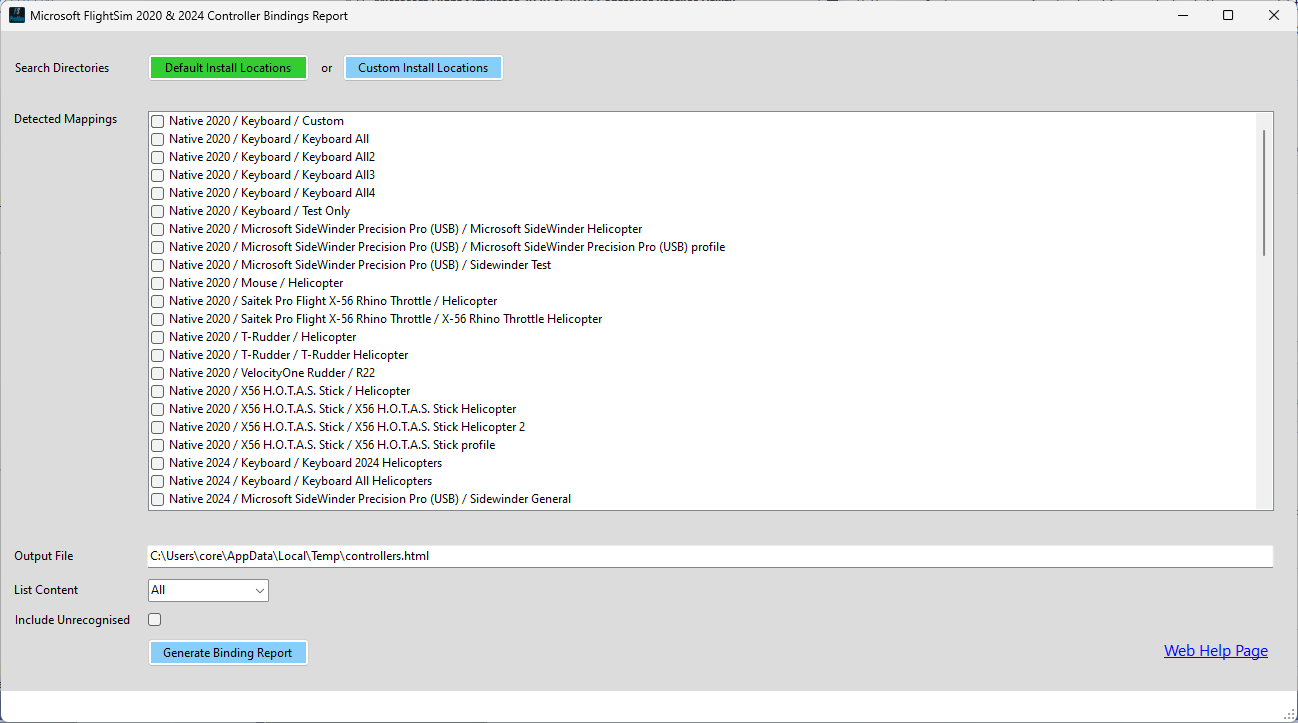
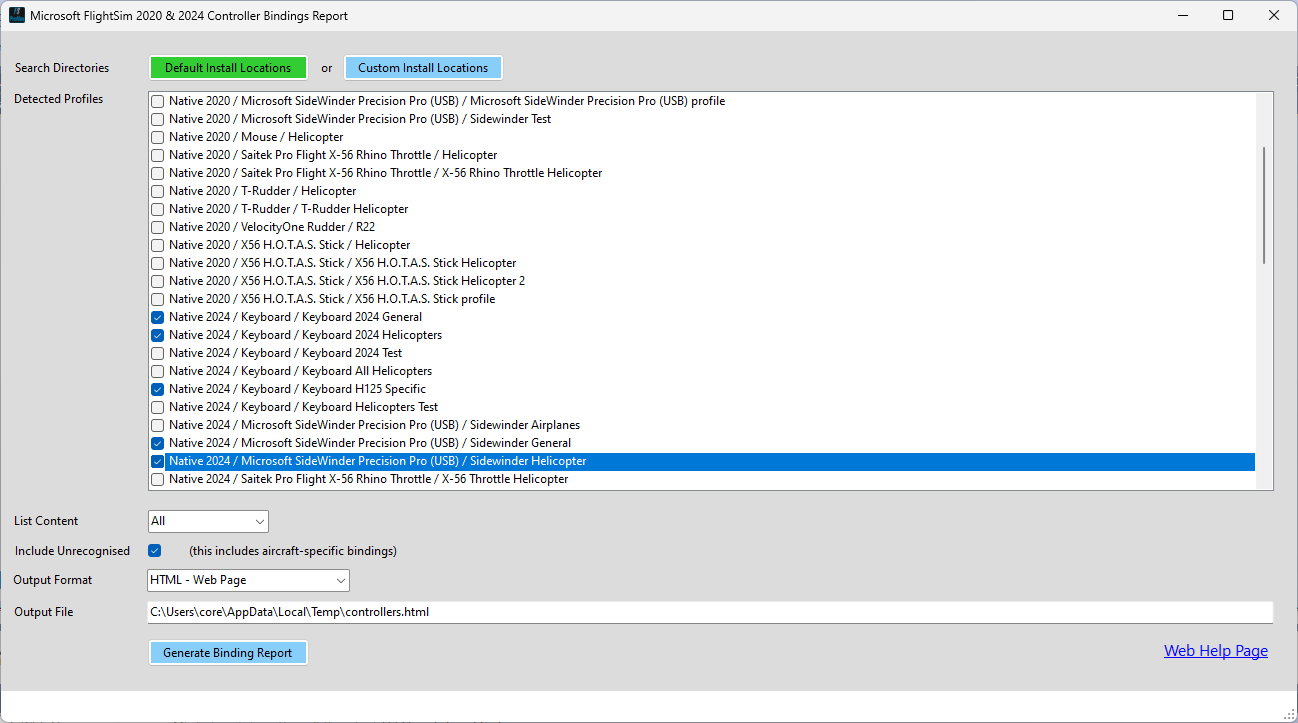
Update documentation, fix tab order

Changed region(s): [[0.0, 0.1217, 0.9861, 0.8824], [0.0, 0.6999, 0.0616, 0.7303], [0.9861, 0.0, 1.0, 0.0304]]

diff --git a/FSProfiles/MainForm.Designer.cs b/FSProfiles/MainForm.Designer.cs
@@ -61,7 +61,7 @@
             lblMappings.Margin = new Padding(2, 0, 2, 0);
             lblMappings.Name = "lblMappings";
             lblMappings.Size = new Size(96, 15);
-            lblMappings.TabIndex = 8;
+            lblMappings.TabIndex = 4;
             lblMappings.Text = "Detected Profiles";
             // 
             // clbMappings
@@ -71,7 +71,7 @@
             clbMappings.Location = new Point(147, 60);
             clbMappings.Name = "clbMappings";
             clbMappings.Size = new Size(1126, 400);
-            clbMappings.TabIndex = 9;
+            clbMappings.TabIndex = 5;
             // 
             // btnGenerate
             // 
@@ -80,7 +80,7 @@
             btnGenerate.Margin = new Padding(2);
             btnGenerate.Name = "btnGenerate";
             btnGenerate.Size = new Size(163, 29);
-            btnGenerate.TabIndex = 15;
+            btnGenerate.TabIndex = 14;
             btnGenerate.Text = "&Generate Binding Report";
             btnGenerate.UseVisualStyleBackColor = false;
             btnGenerate.Click += BtnGenerate_Click;
@@ -91,7 +91,7 @@
             txtOutputFile.Margin = new Padding(2);
             txtOutputFile.Name = "txtOutputFile";
             txtOutputFile.Size = new Size(1127, 23);
-            txtOutputFile.TabIndex = 11;
+            txtOutputFile.TabIndex = 13;
             // 
             // LblOutputFile
             // 
@@ -100,7 +100,7 @@
             LblOutputFile.Margin = new Padding(2, 0, 2, 0);
             LblOutputFile.Name = "LblOutputFile";
             LblOutputFile.Size = new Size(66, 15);
-            LblOutputFile.TabIndex = 10;
+            LblOutputFile.TabIndex = 12;
             LblOutputFile.Text = "Output File";
             // 
             // lblContent
@@ -110,7 +110,7 @@
             lblContent.Margin = new Padding(2, 0, 2, 0);
             lblContent.Name = "lblContent";
             lblContent.Size = new Size(71, 15);
-            lblContent.TabIndex = 12;
+            lblContent.TabIndex = 6;
             lblContent.Text = "List Content";
             // 
             // statusStrip1
@@ -121,7 +121,7 @@
             statusStrip1.Location = new Point(0, 660);
             statusStrip1.Name = "statusStrip1";
             statusStrip1.Size = new Size(1296, 31);
-            statusStrip1.TabIndex = 17;
+            statusStrip1.TabIndex = 16;
             statusStrip1.Text = "statusStrip1";
             // 
             // tsStatus
@@ -149,7 +149,7 @@
             cmbContent.Location = new Point(147, 479);
             cmbContent.Name = "cmbContent";
             cmbContent.Size = new Size(121, 23);
-            cmbContent.TabIndex = 13;
+            cmbContent.TabIndex = 7;
             cmbContent.Text = "All";
             // 
             // chkIncludeUncategorised
@@ -160,7 +160,7 @@
             chkIncludeUncategorised.Location = new Point(10, 511);
             chkIncludeUncategorised.Name = "chkIncludeUncategorised";
             chkIncludeUncategorised.Size = new Size(151, 19);
-            chkIncludeUncategorised.TabIndex = 14;
+            chkIncludeUncategorised.TabIndex = 8;
             chkIncludeUncategorised.Text = "Include Unrecognised";
             toolTip1.SetToolTip(chkIncludeUncategorised, "Checking this box includes an additional section on the report that lists control bindings that could not be matched to a Controls Options item");
             chkIncludeUncategorised.UseVisualStyleBackColor = true;
@@ -181,7 +181,7 @@
             LinkHelp.Location = new Point(1159, 608);
             LinkHelp.Name = "LinkHelp";
             LinkHelp.Size = new Size(114, 21);
-            LinkHelp.TabIndex = 16;
+            LinkHelp.TabIndex = 15;
             LinkHelp.TabStop = true;
             LinkHelp.Text = "Web Help Page";
             LinkHelp.LinkClicked += LinkHelp_LinkClicked;
@@ -193,7 +193,7 @@
             btnDefaultLocations.Location = new Point(146, 22);
             btnDefaultLocations.Name = "btnDefaultLocations";
             btnDefaultLocations.Size = new Size(163, 29);
-            btnDefaultLocations.TabIndex = 18;
+            btnDefaultLocations.TabIndex = 1;
             btnDefaultLocations.Text = "Default Install Locations";
             btnDefaultLocations.UseVisualStyleBackColor = false;
             btnDefaultLocations.Click += BtnDefaultLocations_Click;
@@ -204,7 +204,7 @@
             LblOr.Location = new Point(317, 29);
             LblOr.Name = "LblOr";
             LblOr.Size = new Size(18, 15);
-            LblOr.TabIndex = 19;
+            LblOr.TabIndex = 2;
             LblOr.Text = "or";
             // 
             // btnCustomLocations
@@ -214,7 +214,7 @@
             btnCustomLocations.Location = new Point(341, 22);
             btnCustomLocations.Name = "btnCustomLocations";
             btnCustomLocations.Size = new Size(163, 29);
-            btnCustomLocations.TabIndex = 20;
+            btnCustomLocations.TabIndex = 3;
             btnCustomLocations.Text = "Custom Install Locations";
             btnCustomLocations.UseVisualStyleBackColor = false;
             btnCustomLocations.Click += BtnCustomLocations_Click;
@@ -225,7 +225,7 @@
             lblIncludeAircraftSpecific.Location = new Point(185, 512);
             lblIncludeAircraftSpecific.Name = "lblIncludeAircraftSpecific";
             lblIncludeAircraftSpecific.Size = new Size(215, 15);
-            lblIncludeAircraftSpecific.TabIndex = 21;
+            lblIncludeAircraftSpecific.TabIndex = 9;
             lblIncludeAircraftSpecific.Text = "(this includes aircraft-specific bindings)";
             // 
             // cmbOutputFormat
@@ -235,7 +235,7 @@
             cmbOutputFormat.Location = new Point(146, 538);
             cmbOutputFormat.Name = "cmbOutputFormat";
             cmbOutputFormat.Size = new Size(203, 23);
-            cmbOutputFormat.TabIndex = 23;
+            cmbOutputFormat.TabIndex = 11;
             cmbOutputFormat.SelectedIndexChanged += cmdOutputFormat_SelectedIndexChanged;
             // 
             // LblOutputFormat
@@ -245,7 +245,7 @@
             LblOutputFormat.Margin = new Padding(2, 0, 2, 0);
             LblOutputFormat.Name = "LblOutputFormat";
             LblOutputFormat.Size = new Size(86, 15);
-            LblOutputFormat.TabIndex = 22;
+            LblOutputFormat.TabIndex = 10;
             LblOutputFormat.Text = "Output Format";
             // 
             // MainForm

diff --git a/README.md b/README.md
@@ -55,8 +55,11 @@ specified loations and display the results in the Detected Profiles list.
   * All - all known bindings
   * Assigned - only those currently mapped to an input
   * New - only those not currently mapped to an input.
+  * Difference - only those where there is a difference.
 * Tick the `Include Uncategorised` if you want to include new bindings which have not been
-put into a structure yet (currently this is all of the new FS2024 bindings).
+  put into a structure yet (currently this is all of the new FS2024 bindings).
+* Choose the output format - either html for a coloured web page, or CSV for a file you can
+  open in Excel.
 * Click the `Generate Binding Report` button to generate the report.
 
 ### Program UI
